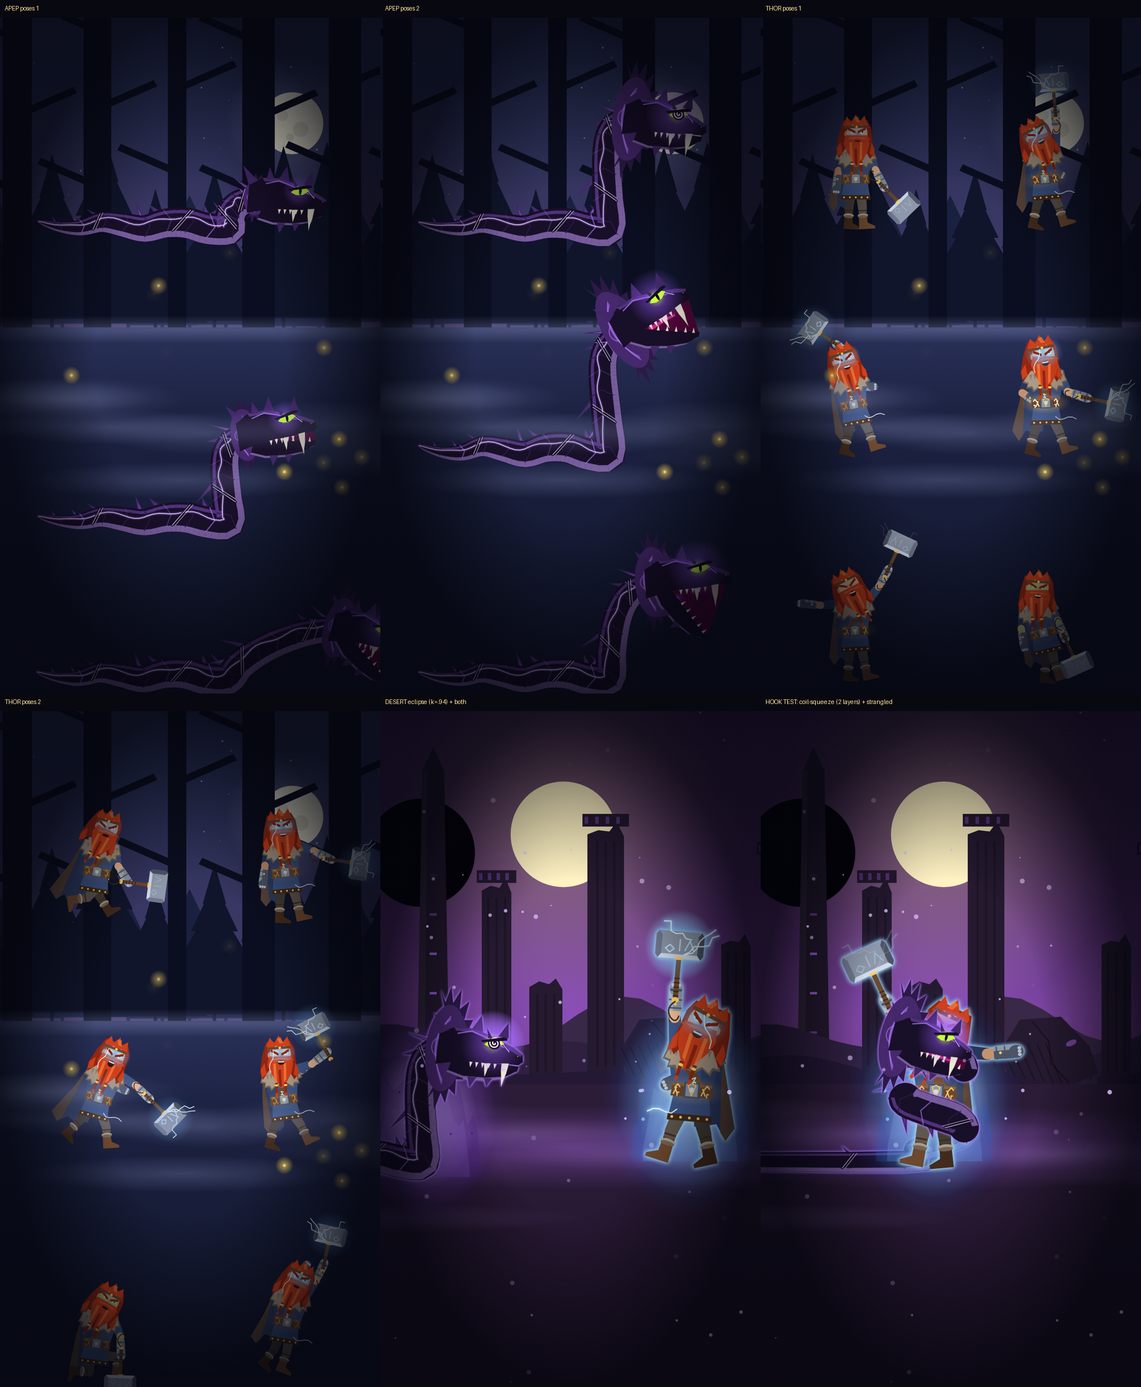
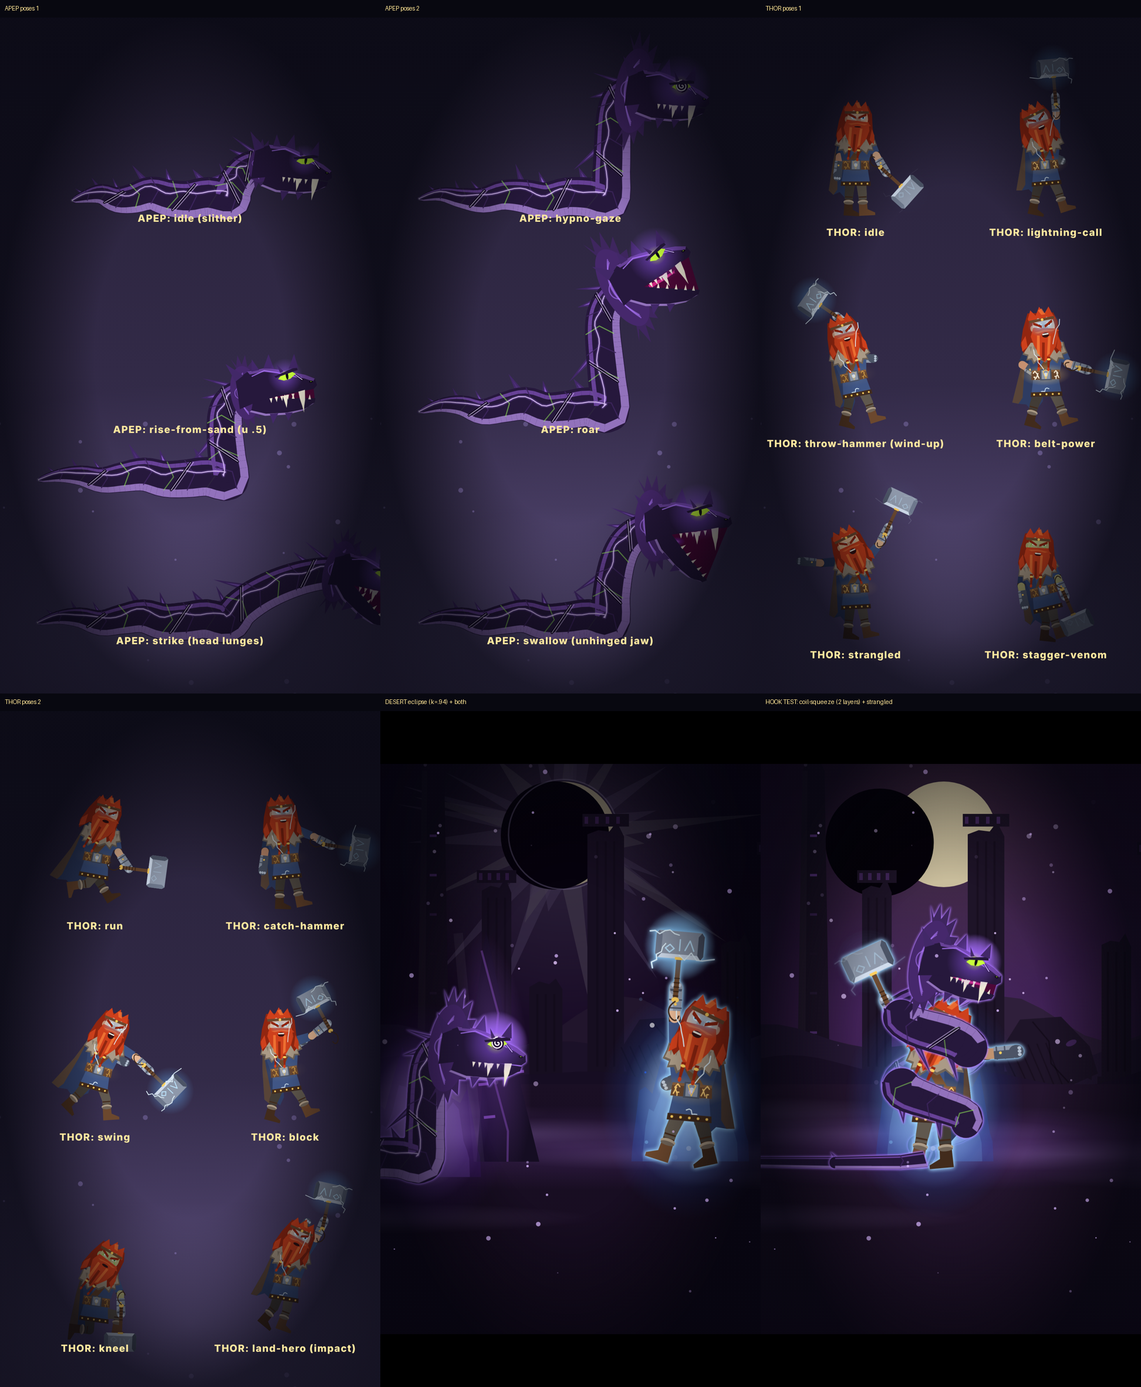
Episode #003 rigs: Apep (17-joint serpent, coil squeeze), Thor (Edda design), desert ruins + eclipse domain, rigs sheet
Claude-Session: https://claude.ai/code/session_01QizWzvtbVMNVgaVd7tYZYM

diff --git a/tools/anim/rigs.js b/tools/anim/rigs.js
@@ -557,7 +557,7 @@
   // layer: 0 = whole snake, 1 = only back parts (head hidden), 2 = only front arcs + head -> use two actors around Thor for the squeeze.
   function buildApep() {
     const rig = newRig(); const root = $('g'); const lift = $('g', {}, root);
-    const OB = rgb(24, 15, 40), OB2 = rgb(44, 26, 70), SHEEN = rgb(80, 50, 122), BEL = rgb(118, 92, 156), SPK = rgb(66, 40, 104), FANG = rgb(238, 232, 212), VEIN = '#b07aff', ACID = '#c8ff3c';
+    const OB = rgb(38, 24, 60), OB2 = rgb(62, 38, 94), SHEEN = rgb(104, 66, 152), BEL = rgb(146, 114, 188), SPK = rgb(66, 40, 104), FANG = rgb(238, 232, 212), VEIN = '#b07aff', ACID = '#c8ff3c';
     const body = joint(lift, 0, 0); rig.body = body; const B = body.c;
     const NJ = 17, SUB = 4, M = (NJ - 1) * SUB + 1;
     const PLY = (g, col) => poly(g, [[0, 0], [1, 0], [1, 1]], col);
@@ -570,7 +570,7 @@
     for (let k = 0; k < M; k++) { rig.Q.push(PLY(gQ, OB)); rig.Ce.push(ell(gQ, 0, 0, 5, 5, OB)); }
     for (let k = 0; k < M - 1; k++) rig.Be.push(PLY(gBel, BEL));
     for (let k = 0; k < M - 1; k++) rig.Sh.push(PLY(gSh, SHEEN));
-    rig.rid = []; for (let i = 0; i < NJ; i++) rig.rid.push($('polyline', { fill: 'none', stroke: i % 2 ? OB2 : VEIN, 'stroke-width': 5, 'stroke-linecap': 'round', opacity: i % 2 ? 0.9 : 0.5 }, gRid));
+    rig.rid = []; for (let i = 0; i < NJ; i++) rig.rid.push($('polyline', { fill: 'none', stroke: i % 2 ? OB2 : '#9cff5a', 'stroke-width': 5, 'stroke-linecap': 'round', opacity: i % 2 ? 0.9 : 0.5 }, gRid));
     rig.vnG = $('polyline', { fill: 'none', stroke: VEIN, 'stroke-width': 16, 'stroke-linejoin': 'round', 'stroke-linecap': 'round', opacity: 0.25 }, gVn);
     rig.vn = $('polyline', { fill: 'none', stroke: '#e3c8ff', 'stroke-width': 5, 'stroke-linejoin': 'round', 'stroke-linecap': 'round', opacity: 0.85 }, gVn);
     // knife-cut gashes (cartoon, cut open pale violet, no gore)
@@ -619,18 +619,18 @@
     rig.mk = {}; const mk = (n, p, x, y) => { rig.mk[n] = $('circle', { cx: x, cy: y, r: 1, fill: 'none' }, p); };
     mk('head', Hc, 130, -10); mk('eye', Hc, ex + 10, ey); mk('mouth', Hc, 280, 28); mk('tail', B, -900, 0); mk('body', B, 0, -120); rig.dynHead = true;
     rig.root = root;
-    rig.N = { bodyY: 0, shakeX: 0, shakeY: 0, rear: 0.2, reach: 150, headRot: 0, headDrop: 0, hs: 1, waveA: 34, waveP: 0, tailUp: 0, tailSwing: 0, sway: 0, coil: 0, wrapX: 520, wrapY: 0, wrapR: 170, wrapH: 700, turns: 2, squeeze: 0, layer: 0, jaw: 0.04, unhinge: 0, tongue: 0, eyeGlow: 1, hypno: 0, hood: 0.3, sink: 0, hurt: 0, girth: 1, bulge: -1, bulgeAmp: 0, eye: 1 };
+    rig.N = { bodyY: 0, shakeX: 0, shakeY: 0, rear: 0.2, reach: 150, headRot: 0, headDrop: 0, hs: 1, waveA: 34, waveP: 0, tailUp: 0, tailSwing: 0, sway: 0, coil: 0, wrapX: 520, wrapY: 0, wrapR: 170, wrapH: 900, turns: 2.75, squeeze: 0, layer: 0, jaw: 0.04, unhinge: 0, tongue: 0, eyeGlow: 1, hypno: 0, hood: 0.3, sink: 0, hurt: 0, girth: 1.25, tlen: 900, bulge: -1, bulgeAmp: 0, eye: 1 };
     const wprof = (s) => (s < 0.55 ? 8 + 142 * Math.pow(Math.sin(s / 0.55 * Math.PI / 2), 0.7) : lerp(150, 116, (s - 0.55) / 0.45));
     const sm = (x) => x * x * (3 - 2 * x);
     function spine(P, t) {
-      const pts = [], zz = [], TLEN = 900, A = P.waveA, ph = P.waveP, lam = 330;
+      const pts = [], zz = [], TLEN = P.tlen, A = P.waveA, ph = P.waveP, lam = 330;
       for (let i = 0; i <= 9; i++) { const x = -TLEN * (1 - i / 9), env = clamp(-x / 170), tt = 1 - i / 9; let y = -A * (0.5 + 0.5 * Math.sin(2 * Math.PI * x / lam - ph)) * env; y -= P.tailUp * tt * tt * 460; pts.push([x + P.tailSwing * tt * tt * 160, y]); }
       const hy = -P.rear * 620 + P.headDrop, hx = P.reach, a = P.headRot * rad, L2 = 80 + 140 * P.rear;
       const p0 = pts[9], p1 = [-40 + hx * 0.25 + P.sway, hy * 0.68], p2 = [hx - Math.cos(a) * L2, hy - Math.sin(a) * L2], p3 = [hx, hy];
       for (let j = 1; j <= 7; j++) { const u = j / 7, v = 1 - u; pts.push([v * v * v * p0[0] + 3 * v * v * u * p1[0] + 3 * v * u * u * p2[0] + u * u * u * p3[0] + P.sway * 0.5 * Math.sin(Math.PI * u), v * v * v * p0[1] + 3 * v * v * u * p1[1] + 3 * v * u * u * p2[1] + u * u * u * p3[1]]); }
       for (let i = 0; i < NJ; i++) zz.push(0);
       if (P.coil > 0.001) {
-        const c0 = 3, R = P.wrapR * (1 - 0.14 * P.squeeze), sq = P.squeeze;
+        const c0 = 1, R = P.wrapR * (1 - 0.14 * P.squeeze), sq = P.squeeze;
         for (let j = c0; j < NJ; j++) {
           const q = (j - c0) / (NJ - 1 - c0), w = sm(clamp(P.coil * 1.8 - (1 - q) * 0.8)), th = Math.PI + P.turns * 2 * Math.PI * q + 0.15 * Math.sin(t * 3 + j) * sq;
           const hx2 = P.wrapX + Math.cos(th) * R, hy2 = P.wrapY - P.wrapH * Math.pow(q, 0.92) - 6 * Math.sin(t * 11 + j) * sq;
@@ -691,7 +691,7 @@
     idle: (c) => ({ waveP: c.t * 3.4, waveA: 34, rear: 0.22 + 0.04 * Math.sin(c.t * 1.3), reach: 150 + 30 * Math.sin(c.t * 0.9), headRot: 5 + 4 * Math.sin(c.t * 1.1), sway: 26 * Math.sin(c.t * 1.2), tailSwing: Math.sin(c.t * 1.7), hood: 0.3, tongue: 0.7 * Math.pow(Math.max(0, Math.sin(c.t * 2.6)), 8), jaw: 0.05 }),
     'rise-from-sand': (c) => Object.assign(KO(c.u, [[0, { sink: 1, rear: 0.1, reach: 120, headRot: 0, hood: 0, jaw: 0, eyeGlow: 0.2, waveA: 10 }], [0.35, { sink: 0.55, rear: 0.45, hood: 0.3, eyeGlow: 0.8, waveA: 24 }], [0.72, { sink: 0.08, rear: 0.97, reach: 100, headRot: -10, hood: 0.95, eyeGlow: 1.6, jaw: 0.35, waveA: 34 }], [1, { sink: 0, rear: 0.9, reach: 130, headRot: 2, hood: 1, eyeGlow: 1.3, jaw: 0.1 }]], 'inOut'), { waveP: c.t * 3, shakeX: 6 * Math.sin(c.lt * 47) * clamp(1 - c.u * 1.3) }),
     strike: (c) => Object.assign(KO(c.u, [[0, { rear: 0.95, reach: 110, headRot: -8, hood: 1, jaw: 0.1, tongue: 0.4 }], [0.28, { rear: 1, reach: 30, headRot: -24, hood: 1, jaw: 0.2, tongue: 0.9, eyeGlow: 1.6 }], [0.44, { rear: c.p.rear2 === undefined ? 0.36 : c.p.rear2, reach: c.p.reach || 760, headRot: 16, hood: 0.7, jaw: 1, tongue: 0, eyeGlow: 1.6 }], [0.7, { jaw: 0.9 }], [1, { rear: 0.82, reach: 140, headRot: 0, hood: 0.8, jaw: 0.15, eyeGlow: 1.2 }]], 'inOut'), { waveP: c.t * 3, shakeX: 7 * Math.sin(c.lt * 60) * (c.u > 0.4 && c.u < 0.55 ? 1 : 0) }),
-    'coil-squeeze': (c) => { const e = EASE.outCubic(clamp(c.lt / 0.55)), p = c.p; return { coil: e, wrapX: p.wrapX === undefined ? 520 : p.wrapX, wrapY: p.wrapY || 0, wrapR: p.wrapR || 170, wrapH: p.wrapH || 700, turns: p.turns || 2, squeeze: clamp((c.lt - 0.4) / 0.4) * (0.55 + 0.45 * Math.sin(c.lt * 9)), layer: p.layer || 0, headRot: p.headRot === undefined ? 14 : p.headRot, hood: 1, jaw: 0.35 + 0.1 * Math.sin(c.lt * 7), tongue: 0.6 * Math.pow(Math.max(0, Math.sin(c.lt * 6)), 4), eyeGlow: 1.7, hypno: p.hypno || 0, waveP: c.t * 2, shakeX: 1.5 * Math.sin(c.lt * 40) * e }; },
+    'coil-squeeze': (c) => { const e = EASE.outCubic(clamp(c.lt / 0.55)), p = c.p; return { coil: e, wrapX: p.wrapX === undefined ? 520 : p.wrapX, wrapY: p.wrapY || 0, wrapR: p.wrapR || 170, wrapH: p.wrapH || 900, turns: p.turns || 2.75, squeeze: clamp((c.lt - 0.4) / 0.4) * (0.55 + 0.45 * Math.sin(c.lt * 9)), layer: p.layer || 0, headRot: p.headRot === undefined ? 14 : p.headRot, hood: 1, jaw: 0.35 + 0.1 * Math.sin(c.lt * 7), tongue: 0.6 * Math.pow(Math.max(0, Math.sin(c.lt * 6)), 4), eyeGlow: 1.7, hypno: p.hypno || 0, waveP: c.t * 2, shakeX: 1.5 * Math.sin(c.lt * 40) * e }; },
     'hypno-gaze': (c) => { const e = env(c.lt, 0.4); return { rear: 0.82, reach: 130 + 14 * Math.sin(c.t * 1.4), headRot: 8 * e, hs: 1 + 0.05 * e, hood: 1, hypno: e, eyeGlow: 1 + 0.9 * e, jaw: 0.05, sway: 30 * Math.sin(c.t * 1.1), tongue: 0.3 * Math.pow(Math.max(0, Math.sin(c.t * 3)), 6), waveP: c.t * 2.2, waveA: 30 }; },
     roar: (c) => { const e = env(c.lt, 0.25), tr = Math.sin(c.lt * 55) * e; return { rear: 0.96, reach: 70 * (1 - e) + 90, headRot: -30 * e + 2 * tr, jaw: 1.0 + 0.08 * tr, hood: 1, eyeGlow: 1.7, shakeX: 5 * tr, shakeY: 2.5 * Math.sin(c.lt * 71) * e, hs: 1 + 0.06 * e, tongue: 0.25, waveP: c.t * 3, waveA: 40 }; },
     swallow: (c) => Object.assign(KO(c.u, [[0, { rear: 0.95, reach: 90, headRot: -14, hood: 1, jaw: 0.3, unhinge: 0, eyeGlow: 1.5 }], [0.3, { rear: 1, reach: 20, headRot: -28, jaw: 0.8, unhinge: 0.5 }], [0.5, { rear: 0.38, reach: c.p.reach || 620, headRot: 28, jaw: 1.1, unhinge: 1, hood: 0.8, eyeGlow: 1.8 }], [0.68, { jaw: 0.5, unhinge: 0.6, rear: 0.5, reach: 400, headRot: 10 }], [0.85, { jaw: 0.08, unhinge: 0, rear: 0.78, reach: 160, headRot: -6, hood: 0.7 }], [1, { rear: 0.85, reach: 140, headRot: 0 }]], 'inOut'), { bulge: clamp((c.u - 0.62) / 0.3), bulgeAmp: c.u > 0.62 && c.u < 0.96 ? 0.9 : 0, waveP: c.t * 3, shakeX: 5 * Math.sin(c.lt * 55) * (c.u > 0.42 && c.u < 0.56 ? 1 : 0) }),
@@ -700,6 +700,7 @@
     sink: (c) => Object.assign(KO(c.u, [[0, { rear: 0.85, reach: 140, headRot: 0, hood: 0.7, eyeGlow: 1.2 }], [0.35, { rear: 0.45, reach: 200, headRot: 22, hood: 0.3, eyeGlow: 0.7, jaw: 0.1 }], [0.75, { sink: 0.5, rear: 0.2, headRot: 10, eyeGlow: 0.4 }], [1, { sink: 1, rear: 0.1, headRot: 0, eyeGlow: 0.2 }]], 'inOut'), { waveP: c.t * 2.4, waveA: 28 }),
     talk: (c) => { const a = c.amp || 0; return { rear: 0.55 + 0.02 * Math.sin(c.t * 1.4), reach: 150, headRot: 4 + 3 * Math.sin(c.t * 1.2), jaw: 0.05 + 0.65 * a, hood: 0.6 + 0.2 * a, tongue: 0.35 * Math.pow(Math.max(0, Math.sin(c.t * 5)), 6) + 0.15 * a, eyeGlow: 1.15, hypno: c.p.hypno || 0, sway: 22 * Math.sin(c.t * 1.1), waveP: c.t * 2.6, waveA: 30, hs: 1.04 }; },
   };
+  APEP['idle-card'] = (c) => ({ tlen: 400, rear: 0.97 + 0.02 * Math.sin(c.t * 1.3), reach: 90 + 10 * Math.sin(c.t * 0.9), headRot: 6 + 3 * Math.sin(c.t * 1.1), hood: 0.95, waveA: 22, waveP: c.t * 2.4, sway: 14 * Math.sin(c.t * 1.2), jaw: 0.08, tongue: 0.8 * Math.pow(Math.max(0, Math.sin(c.t * 2.2)), 6), eyeGlow: 1.3, tailSwing: 0.4 * Math.sin(c.t * 1.5) });
   APEP.fade = APEP.idle;
 
   // =============================================================== THOR (Eddic thunder god, ep #003 guardian, screen-RIGHT: flip -1 to face left)
@@ -776,7 +777,7 @@
     rig.mou = joint(Hc, 8, -482);
     poly(rig.mou.c, [[-44, -494], [8, -500], [60, -494], [72, -482], [40, -476], [8, -484], [-22, -476], [-56, -482]], HAIR); poly(rig.mou.c, [[-40, -490], [8, -495], [56, -490], [40, -484], [8, -490], [-24, -484]], HAIRL, { opacity: 0.55 });
     // eyes
-    rig.eyes = []; const mkEye = (cx, cy) => { const gl = $('circle', { cx, cy, r: 32, fill: 'url(#gBlue)', opacity: 0.7 }, Hc); const e = joint(Hc, cx, cy); const w = ell(e.c, cx, cy, 11, 9, rgb(240, 250, 255)); const ir = ell(e.c, cx + 2, cy, 6.5, 7.5, rgb(150, 218, 255)); G.reg(ir, rgb(150, 218, 255)); ell(e.c, cx + 3, cy, 3, 4, rgb(16, 20, 40)); ell(e.c, cx - 1, cy - 3, 2, 2, '#fff'); rig.eyes.push({ gl, e, ir }); };
+    rig.eyes = []; const mkEye = (cx, cy) => { const gl = $('circle', { cx, cy, r: 24, fill: 'url(#gBlue)', opacity: 0.5 }, Hc); const e = joint(Hc, cx, cy); const w = ell(e.c, cx, cy, 11, 9, rgb(240, 250, 255)); const ir = ell(e.c, cx + 2, cy, 6.5, 7.5, rgb(150, 218, 255)); G.reg(ir, rgb(150, 218, 255)); ell(e.c, cx + 3, cy, 3, 4, rgb(16, 20, 40)); ell(e.c, cx - 1, cy - 3, 2, 2, '#fff'); rig.eyes.push({ gl, e, ir }); };
     mkEye(-14, -520); mkEye(30, -520);
     rig.browL = joint(Hc, -18, -528); poly(rig.browL.c, [[-40, -542], [-2, -524], [-2, -513], [-40, -530]], HAIRD); rig.browR = joint(Hc, 34, -528); poly(rig.browR.c, [[48, -542], [10, -524], [10, -513], [48, -530]], HAIRD);
     // front hair + leather band (no winged helmet)
@@ -800,7 +801,7 @@
       hd.set(P.head + 0.6 * Math.sin(t * 1.3), 1.14, 1.14);
       beard.set(P.beard + 2.2 * Math.sin(t * 1.7), 1, 1 + 0.03 * P.mouth, 0, 0); rig.hairB.set(P.hair + 1.6 * Math.sin(t * 1.4 + 1));
       const mo = clamp(P.mouth, 0, 1.2); rig.mouth.setAttribute('ry', f2(3 + mo * 15)); rig.mouth.setAttribute('cy', f2(-476 + mo * 6)); rig.teeth.setAttribute('opacity', mo > 0.25 ? 1 : 0); rig.mou.set(0, 1, 1, 0, -mo * 1.5);
-      const bl = P.eye * (1 - blink(t, 3.7)); rig.eyes.forEach((E, i) => { E.e.set(0, 1, Math.max(0.08, bl)); E.gl.setAttribute('r', f2(32 * P.eyeGlow)); E.gl.setAttribute('opacity', f2(clamp(0.2 + 0.5 * P.eyeGlow))); E.ir.setAttribute('fill', G.mixc(rgb(150, 218, 255), rgb(150, 190, 90), clamp(P.venom))); });
+      const bl = P.eye * (1 - blink(t, 3.7)); rig.eyes.forEach((E, i) => { E.e.set(0, 1, Math.max(0.08, bl)); E.gl.setAttribute('r', f2(24 * P.eyeGlow)); E.gl.setAttribute('opacity', f2(clamp(0.1 + 0.35 * P.eyeGlow))); E.ir.setAttribute('fill', G.mixc(rgb(150, 218, 255), rgb(150, 190, 90), clamp(P.venom))); });
       rig.browL.set(P.brow * 5, 1, 1, 0, P.brow * 5); rig.browR.set(-P.brow * 5, 1, 1, 0, P.brow * 5);
       const bg = clamp(P.belt, 0, 2.2); rig.beltG.setAttribute('opacity', f2(clamp(bg * 0.45) * (0.8 + 0.2 * Math.sin(t * 9)))); rig.runes.setAttribute('stroke', G.mixc(rgb(255, 196, 80), '#ffffff', clamp(bg - 1) * 0.8)); rig.runes.setAttribute('opacity', f2(0.35 + 0.65 * clamp(bg))); rig.runes.setAttribute('stroke-width', f2(4 + 1.5 * clamp(bg - 1, 0, 1))); rig.runesW.setAttribute('opacity', f2(0.3 + 0.7 * clamp(bg)));
       // cloak

diff --git a/episodes/apep-vs-thor/anim/make_rigs_sheet.js b/episodes/apep-vs-thor/anim/make_rigs_sheet.js
@@ -4,32 +4,32 @@
 const fs = require('fs'), path = require('path'), { spawnSync } = require('child_process');
 const ROOT = path.resolve(__dirname, '../../..'), OUT = process.argv[2] && !process.argv[2].startsWith('--') ? process.argv[2] : path.join(ROOT, 'episodes/apep-vs-thor/preview/rigs-sheet.png');
 const TMP = fs.mkdtempSync(path.join(require('os').tmpdir(), 'rigs3-'));
-const base = (o) => Object.assign({ fps: 30, duration: 4, holeX: 130, camInit: { cx: 540, cy: 960, zoom: 1 }, tracks: {}, scenes: [{ t0: 0, s: 'forest' }], actors: {}, cues: [], shots: [{ t: 0, type: 'wide', cx: 540, cy: 960, zoom: 1 }], props: [], fx: [], text: [], voices: { v: { words: [[0, 9]] } } }, o);
+const base = (o) => Object.assign({ fps: 30, duration: 4, holeX: 130, camInit: { cx: 540, cy: 960, zoom: 1 }, tracks: {}, domains: { pose: { sky: ['#171424', '#3c3254'], glow: '#8a78b8', floor: ['#2a2434', '#100c18'], motif: 'none', horizon: 1900 } }, scenes: [{ t0: 0, s: 'domain-pose' }], actors: {}, cues: [], shots: [{ t: 0, type: 'wide', cx: 540, cy: 960, zoom: 1 }], props: [], fx: [], text: [], voices: { v: { words: [[0, 9]] } } }, o);
 // items: {kind, a (action), at (seconds into the action), dur, p, x, scale, label}
 const grid = (items, cols, cw, ch, y0) => { const tl = base({}); items.forEach((it, i) => { const c = i % cols, r = Math.floor(i / cols), x = cw * c + (it.x === undefined ? cw / 2 : it.x), y = y0 + ch * r, a = 'a' + i; const at = it.at || 0, dur = it.dur || 2;
-  tl.actors[a] = { kind: it.kind, x, y, scale: it.scale, flip: it.flip || 1, z: 1, variant: 0 }; tl.cues.push({ actor: a, action: it.a, t0: -at, t1: -at + dur, params: Object.assign({ voice: 'v' }, it.p || {}) });
+  tl.actors[a] = { kind: it.kind, x, y, scale: it.scale, flip: it.flip || 1, z: 1, variant: 0 }; tl.cues.push({ actor: a, action: it.a, t0: 1 - at, t1: 1 - at + dur, params: Object.assign({ voice: 'v' }, it.p || {}) });
   tl.text.push({ t0: 0, t1: 4, text: it.label || (it.kind.toUpperCase() + ': ' + it.a), x: cw * c + cw / 2, y: y + 60, size: 28, color: '#ffe9a0', anim: 'fade' }); }); return tl; };
 const panels = [];
 const ap = (a, at, dur, p, label) => ({ kind: 'apep', a, at, dur, p, scale: 0.6, x: 650, label });
-panels.push([grid([ap('idle', 1.2, 4, {}, 'APEP: idle (slither)'), ap('rise-from-sand', 0.62, 1.2, {}, 'APEP: rise-from-sand (u .5)'), ap('strike', 0.5, 1.0, { reach: 560 }, 'APEP: strike (head lunges)')], 1, 1080, 640, 600), 0]);
-panels.push([grid([ap('hypno-gaze', 1.5, 3, {}, 'APEP: hypno-gaze'), ap('roar', 0.8, 2, {}, 'APEP: roar'), ap('swallow', 0.55, 1.4, { reach: 520 }, 'APEP: swallow (unhinged jaw)')], 1, 1080, 640, 600), 0]);
+panels.push([grid([ap('idle', 1.2, 4, {}, 'APEP: idle (slither)'), ap('rise-from-sand', 0.62, 1.2, {}, 'APEP: rise-from-sand (u .5)'), ap('strike', 0.5, 1.0, { reach: 560 }, 'APEP: strike (head lunges)')], 1, 1080, 600, 520), 0]);
+panels.push([grid([ap('hypno-gaze', 1.5, 3, {}, 'APEP: hypno-gaze'), ap('roar', 0.8, 2, {}, 'APEP: roar'), ap('swallow', 0.55, 1.4, { reach: 520 }, 'APEP: swallow (unhinged jaw)')], 1, 1080, 600, 520), 0]);
 const th = (a, at, dur, p, label) => ({ kind: 'thor', a, at, dur, p, scale: 0.52, label });
-panels.push([grid([th('idle', 1, 4, {}, 'THOR: idle'), th('lightning-call', 1.2, 2, {}, 'THOR: lightning-call'), th('throw-hammer', 0.36, 1.2, {}, 'THOR: throw-hammer (wind-up)'), th('belt-power', 1.0, 2, {}, 'THOR: belt-power'), th('strangled', 1.2, 2.5, {}, 'THOR: strangled'), th('stagger-venom', 1.4, 3, {}, 'THOR: stagger-venom')], 2, 540, 640, 600), 0]);
-panels.push([grid([th('run', 0.4, 2, {}, 'THOR: run'), th('catch-hammer', 0.4, 1.2, {}, 'THOR: catch-hammer'), th('swing', 0.5, 1.0, {}, 'THOR: swing'), th('block', 0.5, 1.4, {}, 'THOR: block'), th('kneel', 0.8, 2, {}, 'THOR: kneel'), th('land-hero', 0.55, 1.4, {}, 'THOR: land-hero (impact)')], 2, 540, 640, 600), 0]);
+panels.push([grid([th('idle', 1, 4, {}, 'THOR: idle'), th('lightning-call', 1.2, 2, {}, 'THOR: lightning-call'), th('throw-hammer', 0.36, 1.2, {}, 'THOR: throw-hammer (wind-up)'), th('belt-power', 1.0, 2, {}, 'THOR: belt-power'), th('strangled', 1.2, 2.5, {}, 'THOR: strangled'), th('stagger-venom', 1.4, 3, {}, 'THOR: stagger-venom')], 2, 540, 600, 560), 0]);
+panels.push([grid([th('run', 0.4, 2, {}, 'THOR: run'), th('catch-hammer', 0.4, 1.2, {}, 'THOR: catch-hammer'), th('swing', 0.5, 1.0, {}, 'THOR: swing'), th('block', 0.5, 1.4, {}, 'THOR: block'), th('kneel', 0.8, 2, {}, 'THOR: kneel'), th('land-hero', 0.55, 1.4, {}, 'THOR: land-hero (impact)')], 2, 540, 600, 560), 0]);
 // desert battlefield, eclipse nearly total, both characters
 const dom = { desert: { sky: ['#0b0620', '#5a2f6a'], glow: '#b86bff', floor: ['#2c1c38', '#0c0714'], motif: 'ruins', horizon: 1000, rock: '#251a30', sand: ['#3a2848', '#2f2040', '#241834'], motes: '#e6c8ff', mist: '#b090d8', eclipse: { x: 520, y: 330, r: 150, track: 'eclipse' } } };
 const mkDom = (k, aps, tors, extra) => base(Object.assign({ domains: dom, scenes: [{ t0: 0, s: 'domain-desert' }], tracks: { eclipse: [{ t0: 0, t1: 0.1, v: k }], rise: [{ t0: 0, t1: 0.1, v: 1 }] }, cinema: [[0, 4]], embers: [[0, 4, '#d8b8ff']], sides: { left: 'apep', right: 'thor' },
   props: [{ type: 'spire', x: 360, y: 1260, scale: 1, h: 700, w: 190, tilt: -6, color: '#b86bff', rock: '#150d22', track: 'rise', scene: 'domain-desert' }],
   actors: Object.assign({ apep: { kind: 'apep', x: 120, y: 1260, scale: 0.62, flip: 1, z: 2, aura: { colors: ['#4a1a8a', '#b07aff', '#e8d0ff'], r: 300, h: 200 }, rim: '#b07aff', rimPx: 6 }, thor: { kind: 'thor', x: 880, y: 1270, scale: 0.78, flip: -1, z: 2, aura: { colors: ['#2a5ac8', '#8ad0ff', '#ffffff'], r: 240, h: 230 }, rim: '#9fd8ff', rimPx: 8 } }, extra || {}),
   cues: aps.concat(tors), shots: [{ t: 0, type: 'wide', cx: 540, cy: 940, zoom: 1 }] }, {}));
-panels.push([mkDom(0.94, [{ actor: 'apep', action: 'hypno-gaze', t0: -1.5, t1: 3, params: {} }], [{ actor: 'thor', action: 'lightning-call', t0: -1.2, t1: 3, params: {} }]), 0]);
+panels.push([mkDom(0.94, [{ actor: 'apep', action: 'hypno-gaze', t0: -0.5, t1: 3, params: {} }], [{ actor: 'thor', action: 'lightning-call', t0: -0.2, t1: 3, params: {} }]), 0]);
 // squeeze hook: two apep actors (back / front layer) around Thor
-const sq = (layer) => ({ actor: layer === 1 ? 'apepB' : 'apepF', action: 'coil-squeeze', t0: -1.4, t1: 3, params: { wrapX: 700, wrapR: 150, wrapH: 560, layer, headRot: 14 } });
-const hook = mkDom(0.55, [sq(1), sq(2)], [{ actor: 'thor', action: 'strangled', t0: -1.2, t1: 3, params: {} }], { apepB: { kind: 'apep', x: 60, y: 1260, scale: 0.62, flip: 1, z: 1, rim: '#b07aff', rimPx: 6 }, apepF: { kind: 'apep', x: 60, y: 1260, scale: 0.62, flip: 1, z: 3, rim: '#b07aff', rimPx: 6 } });
+const sq = (layer) => ({ actor: layer === 1 ? 'apepB' : 'apepF', action: 'coil-squeeze', t0: -0.4, t1: 3, params: { wrapX: 700, wrapR: 170, wrapH: 900, layer, headRot: 14 } });
+const hook = mkDom(0.55, [sq(1), sq(2)], [{ actor: 'thor', action: 'strangled', t0: -0.2, t1: 3, params: {} }], { apepB: { kind: 'apep', x: 60, y: 1260, scale: 0.62, flip: 1, z: 1, rim: '#b07aff', rimPx: 6 }, apepF: { kind: 'apep', x: 60, y: 1260, scale: 0.62, flip: 1, z: 3, rim: '#b07aff', rimPx: 6 } });
 delete hook.actors.apep; hook.actors.thor.x = 60 + 700 * 0.62 + 0; hook.props = []; hook.sides = { left: 'apepB', right: 'thor' };
 panels.push([hook, 0]);
 const imgs = [];
-panels.forEach(([tl, t], i) => { const f = path.join(TMP, `p${i}.json`); fs.writeFileSync(f, JSON.stringify(tl)); const d = path.join(TMP, `d${i}`); const r = spawnSync('node', [path.join(ROOT, 'tools/anim/render.js'), '--timeline', f, '--dump', String(t), '--dump-dir', d, '--scale', '1'], { encoding: 'utf8' }); if (r.status || /PAGE ERROR/.test(r.stderr + r.stdout)) { console.error(r.stdout, r.stderr); process.exit(1); } imgs.push(path.join(d, fs.readdirSync(d)[0])); });
+panels.forEach(([tl, t], i) => { const f = path.join(TMP, `p${i}.json`); fs.writeFileSync(f, JSON.stringify(tl)); const d = path.join(TMP, `d${i}`); const r = spawnSync('node', [path.join(ROOT, 'tools/anim/render.js'), '--timeline', f, '--dump', '1', '--dump-dir', d, '--scale', '1'], { encoding: 'utf8' }); if (r.status || /PAGE ERROR/.test(r.stderr + r.stdout)) { console.error(r.stdout, r.stderr); process.exit(1); } imgs.push(path.join(d, fs.readdirSync(d)[0])); });
 if (process.argv.includes('--keep')) { const kd = process.argv[process.argv.indexOf('--keep') + 1]; fs.mkdirSync(kd, { recursive: true }); imgs.forEach((p, i) => fs.copyFileSync(p, path.join(kd, `panel${i}.png`))); }
 const names = ['APEP poses 1', 'APEP poses 2', 'THOR poses 1', 'THOR poses 2', 'DESERT eclipse (k=.94) + both', 'HOOK TEST: coil-squeeze (2 layers) + strangled'];
 const py = `from PIL import Image, ImageDraw\nimgs=${JSON.stringify(imgs)}\nnames=${JSON.stringify(names)}\nW,H=648,1152\nS=Image.new('RGB',(W*3,H*2+60),(8,8,16));d=ImageDraw.Draw(S)\nfor i,p in enumerate(imgs):\n    im=Image.open(p).convert('RGB').resize((W,1152));x=(i%3)*W;y=(i//3)*(H+30)+30;S.paste(im,(x,y));d.text((x+8,y-22),names[i],fill=(255,230,150))\nS.save(${JSON.stringify(OUT)});print(S.size)`;

diff --git a/tools/anim/README.md b/tools/anim/README.md
@@ -106,3 +106,10 @@ Split-roll extensions (per instance in `splits:[]`): half `spin: cards/s` (keeps
 
 ## Known limits
 Fx are simple (no real particles beyond dust/soil/impact/speed lines). Silhouette/split-roll decoys are 7 generic shapes. Grim is very dark on dark ground (rim light is weak). Kid poses hide/cower are rough. Freeze skips actor time (see above).
+
+## Episode #003 additions (apep-vs-thor)
+- **apep** rig (`kind:'apep'`, faces +x, origin = sand point where the neck rises; 17-joint spine, Catmull-Rom resampled). Pose params: `rear` (0..1 head height), `reach` (px), `headRot`, `hs`, `waveA/waveP` (slither), `tailUp/tailSwing`, `sway`, `tlen` (tail length), `jaw`, `unhinge`, `tongue`, `eyeGlow`, `hypno` (eye spiral), `hood`, `sink` (0..1, translates 900 px down: give the cue `clipY`=ground y), `hurt`, `girth`, `bulge/bulgeAmp` (swallowed lump), `coil` (0..1) + `wrapX/wrapY/wrapR/wrapH/turns/squeeze` (helix around a point, local Apep px), `layer` (0 all, 1 back arcs only, 2 front arcs + head: use two actors, z below/above the victim, for the squeeze). Actions: idle idle-card rise-from-sand strike(`reach`,`rear2`) coil-squeeze(`wrapX,wrapR,wrapH,turns,layer`) hypno-gaze roar swallow recoil hurt sink talk. Markers: eye head mouth tail body. `cu`/`reaction` on apep follow the `head` marker.
+- **thor** rig (`kind:'thor'`, faces +x, flip -1 on the right). Params: `aL/aR` [upper,fore] angles (180 = up; hammer extends along forearm), `lF/lB` leg [thigh,shin], `hammer` (0..1 visible), `hAng`, `hglow`, `crackle`, `belt` (rune glow, >1 = white), `eyeGlow`, `mouth`, `brow`, `beard`, `hair`, `cloak`, `trail`, `lift`, `venom`. Actions: idle land-hero walk run throw-hammer catch-hammer swing lightning-call belt-power block strangled stagger-venom kneel recoil talk. Markers: eye head mouth hand hammer body.
+- Split roll: silhouettes `apep` / `thor`; for locked cards use apep `idle:'idle-card'`, fscale ~0.4, fx 10, fy 255; thor fscale 0.5, fy 270.
+- Domain motif `ruins` (dunes, broken columns, obelisk, toppled pharaoh head; colours `rock`, `sand:[3]`) and per-domain `eclipse:{x,y,r,track,dir,sun,moon,corona,dark}` (track 0..1 = none..total: moon slides over the sun, sky darkens, corona + rays at totality).
+- Sheet: `node episodes/apep-vs-thor/anim/make_rigs_sheet.js`.
